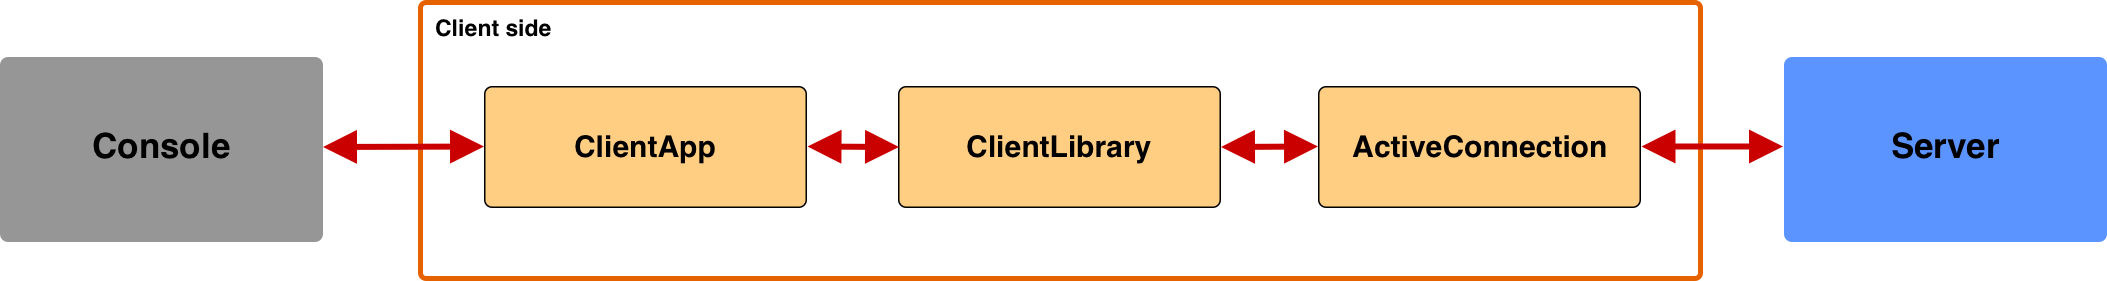
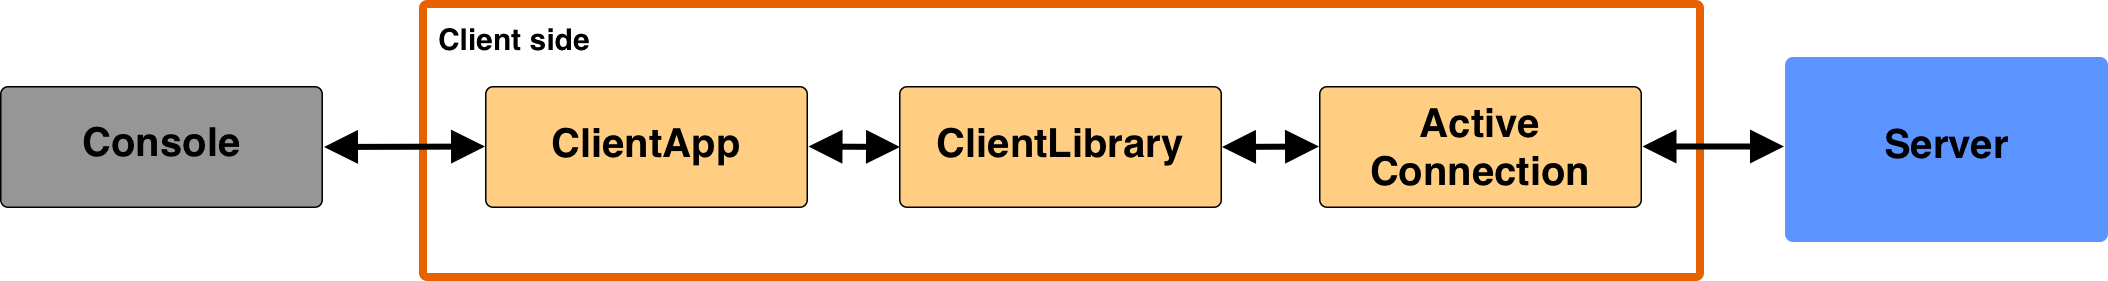
added kvserver section, moved information from background, added notes to summary, updated pics

diff --git a/report/03_key-valueserver.tex b/report/03_key-valueserver.tex
@@ -1,28 +1,17 @@
 \section{Key-value server}
-During the first four milestones, we were tasked with developing a distributed key-value storage system, which includes many features such as replication and caching. In this section, we focus on the implementation behind some of those properties.
+ Before we get into the details of MS5, we would like to revist the implementation of the distributed key-value storage system we were tasked to develop and briefly discuss some of its features. Figure \ref{fig:ms4_arch} displays how a client interacts with its Connection Handle Thread (CHT), the helper thread assigned to serve it. In the following sections, we take a deeper look at how the client side and storage system visible in \ref{fig:ms4_arch} are structured and how they function.
 
 \begin{figure}[h]
 	\centering
 	\includegraphics[width=\linewidth]{figures/kvserver/ms4_structure.png}
-	\caption{KV server architecture}
+	\caption{Key-value server architecture}
+	\label{fig:ms4_arch}
 \end{figure}
 
 
 
-
-\begin{figure}[h]
-	\centering
-	\includegraphics[width=\linewidth]{figures/kvserver/kvs_arch.png}
-	\caption{Client side architecture}
-\end{figure}
-
-
---> Implementation moved here
-
-In this section the implementation of the chatroom is examined in depth. Firstly, the extension for the client side and then for the server side are described respectively. Lastly the chat system is explained in greater detail, since it encapsulates our work for Milestone 5.
-
-\subsection{Client Side Implementation}
-\label{sec:Implementation_clintside}
+%Client Side
+\subsection{Client side}
 
 \begin{figure}[h]
 	\centering
@@ -30,28 +19,43 @@ In this section the implementation of the chatroom is examined in depth. Firstly
 	\caption{Client side architecture}
 	\label{fig:client_arch}
 \end{figure}
+
 The client side consists of the three following main components as seen in figure \ref{fig:client_arch}:
+
 \begin{enumerate} 
-  \item \textit{ClientApp} represents the client interface which allows input through the console. From there the client is able to issue commands to: connect to and disconnect from the system, interact with the key-value store and chat. The input is then checked and parsed before getting sent to the ClientLibrary. The result of the user command is displayed on the console through the ClientApp.
-  \item \textit{ClientLibrary} serves as a bridge between the client and the server.
-  \item \textit{ActiveConnection} abstracts the TCP socket connection to the server which allows the client to connect to the server socket and exchange data without worrying about the underlying structure.
+  \item \textit{ClientApp}: represents the client interface which allows input through the console. From there the client is able to issue commands to connect to and disconnect from the system, interact with the key-value store and chat. The input is then checked and parsed before getting sent to the ClientLibrary. The result of the user's request gets displayed on the console through the ClientApp.
+  \item \textit{ClientLibrary}: serves as a bridge between the client and the server. It contains an instance of the hash ring and is responsible to connect to the correct server.
+  \item \textit{ActiveConnection}: abstracts the TCP socket connection to the server which allows the client to exchange data with the CHT without worrying about the underlying structure.
 \end{enumerate}
  
-\subsection{Server Side Implementation}
-\label{sec:implementation_serverside}
+ 
+ 
+ % Server side
+\subsection{Server side}
 
-Each server owns a list containing the active chatrooms that it is responsible for. In order for a client to join one of those chatrooms is that it would first need to connect to that server, similar to the way storing key-value pair functions. The decision, to make chatrooms accessible only from one server has both its advantages and disadvantages. For one, it reduces the complexity of the system because otherwise servers would need a way to exchange updates regarding the active chatrooms and chat users whenever a user joins or leaves.
+\begin{figure}[h]
+	\centering
+	\includegraphics[width=\linewidth]{figures/kvserver/kvs_arch.png}
+	\caption{Client side architecture}
+\end{figure}
 
-A problem with our implementation is that if the chatIDs are not equally distributed across all servers, which may occur due to the unpredictable nature of the hashing function, a single server could then be in charge of most chatrooms. This would cause that a server to be overloaded with requests and would lead to greater response times and, in the worst-case scenario, would result in a bottleneck for the whole system. In order to combat this issue, we limit the number of chatrooms belonging to one server to 15 and the number of users in a single chatroom to 30. This means a server is responsible for up to 450 chat users. These limits could also be easily changed depending on the intended use case of the system.
+As previously mentioned, the CHT waits on the socket for the client to send a request. Afterwards, the request is transfered to the key-value processor (KVP), which parses the client's string and translates it into direct DOPs. The ServerRing, which contains information about the hash ring, is called to check whether the current server is responsible for performing the requested operation on the provided key or not. In the former case, the request gets forwarded to the KVStore. There, read operations get passed on to the cache and only then to the DiskStore, in case of a cache miss. Write operations instead are redirected to the cache, the DiskStore and the Replication Manager (RPM). The DiskStore creates at the start of each server a directory containing three subdirectories, one for storing the keys it has write access to and one for each of the key sets it has only read access to. A file inside one of those directories represents a key-value pair with the key being the file name and the value the file content.
+The RPM is in charge of both sending updates to the server's replicas and receiving updates regarding sent by the responsible servers.
 
-The biggest advantage of our decision is that it heavily reduces network traffic. Since all chatroom users are connected to the same server, that server can easily forward messages between them. Otherwise additional socket connections would have been required which would have both increased the load on the network and the overall complexity of the system.
+[moved parts from background to here] (not complete)
+Since we do not block clients from accessing the DB, 
+CAP Partition: This is mainly secured by replicating data across multiple servers.
+ACID Durability : This is ensured by persisting data permanently on disk.
 
-Our idea for the chatting functionality was for it to be as lightweight as possible with clients entering and leaving chatrooms regularly.
+With Milestone 4, replication is added to the system with the intention of increasing the availability by distributing the data records to the two replica servers. Redundancy comes along with the replication strategy, however when a node crashes or fails, read operations can be processed via replicated servers.
+Our system conforms to the first property of BASE by being generally available, because servers respond to clients requests even if a latency occurs. The group chat extension, later to be discussed thoroughly, preserves the same requirements.
 
-server side:
-The client interacts directly only with the ConnectionHandleThread (CHT) created by the server to assist that specific client. At the start of the connection, the CHT contacts the ECS in order to assign the client a unique username. After that the CHT interacts exclusively with KV storage and the chat system, depending on the command issued by the client. The KV storage system provides the basic capabilities of a key-value store and persists data on disk. When more than two servers are online and replication is active, each server contains a replica of two other servers. Whenever a put operation is executed, it has to get forwarded to the server.
+Eventual consistency is achieved within the system due to requirements of Milestone 4. If there are no updates for a long time all the replicas will become eventually consistent by updating key ranges of the coordinator and replica nodes placed on an hashring. In order to maintain strong consistency as described in \ref{sec:background_acid}, a client performing a \texttt{PUT} operation would have to also wait until the value gets sent over to both of the servers replicas, which would result in slower \texttt{PUT}s. Since our system is not designed to handle important real-time transactions, such as in a banking system, eventual consistency satisfies our database needs while allowing faster response times and higher availability. 
 
-kv storage:
-The KVCommandProcessor (KVCP) is responsible to receive commands from the CHT and return the result. Before a value is stored or retrieved, the KVCP utilizes the ServerRing to check whether the server is responsible for the provided key or not. In the latter case, a simple error message is returned back to the client, which would then connect to the responsible server. In the former case, the request is sent over to the KVStore. If it was a GET command issued, the KVStore first tries to retrieve the value from the cache. In case the value has not been found, the DiskStore checks if it is stored on disk.
-With a PUT request, the KVStore sends the key-value pair to both the cache and DiskStore and also to the RepManager. This allows it to get sent over to the two replica servers. The RepManager is also charged with updating the replica on the server whenever one of the coordinators processes a PUT command.
+Since the implementation of Milestone 3, it is possible to monitor key-value stores continuously. The ECS pings each key-value server every 700 ms to be informed about the servers’ availability. If a server does not respond to the ping within a given period, it is considered shutdown. With replication active, single failing server nodes can be tolerated, thus partition tolerance is provided as well. Since each piece of data exists on three different servers, the only way information can get permanently lost is if all three responsible servers crash simultaneously with no time in between to transfer data to a running server.
+
+One of the downsides of our system is that the chat system runs just one of the requested servers by the client. Thus, partition tolerance may not be covered in case of that serving crashing. As in the most database systems there are trade-offs between the properties: availability, consistency and partition tolerance.
+
+
+
 

diff --git a/report/02_background.tex b/report/02_background.tex
@@ -21,7 +21,7 @@ According to the CAP Theorem, distributed databases have three substantial prope
   \item Availability: \\
   Servers respond to the request of clients at all cases. Every non-failing node in the system must be able to serve the client in a reasonable amount of time\cite{gilbert2002brewer}.
   \item Partition tolerance: \\
-  Whenever a server crashes, the rest of the system will still stay functional after the crash, without any information being lost. This is mainly secured by replicating data across multiple servers.
+  Whenever a server crashes, the rest of the system will still stay functional after the crash, without any information being lost.
 \end{itemize}
 
 Twelve years after from proposing the CAP theorem, Brewer mentioned that software engineers do not have to strictly abide to the 2 of 3 principle, it is rather a spectrum than a binary choice \cite{brewer2012cap}. In other words, a distributed database system can favour high level of consistency and partition tolerance by having low level of availability. Thus, the initial theorem is improved by not having to sacrifice availability completely in this case.
@@ -39,14 +39,12 @@ The system never contains any stale data. When a client wants to read from any s
 \item Isolation:\\
 All transactions happen isolated from each other and do not affect each other. Thus, if one transaction fails, all others are undisturbed.
 \item Durability:\\
-Once a client is informed that a transaction has been successfully committed, even if a crash occurs, the transaction would still stay committed. This is ensured by persisting data permanently on disk.
+Once a client is informed that a transaction has been successfully committed, even if a crash occurs, the transaction would still stay committed.
 \end{itemize} 
 
 \subsection{BASE}
 \label{sec:background_base}
 BASE, another design approach defined by Brewer, offers looser requirements than ACID\cite{brewer2012cap}. Non-relational database systems concentrating on high availability make use of the BASE approach, which sacrifices strong consistency in favour of being always accessible. Examples include huge storage services such as Amazon's Dynamo, Facebook's Cassandra or Google's BigTable, where millions of active users always expect the service to be available\cite{kalid2017big}. Nevertheless, there must be trade-offs. By not guaranteeing the consistency at all time, the system cost is reduced, and clients are happier, but a client might not get an immediate response to his request.
-
-With Milestone 4, replication is added to the system with the intention of increasing the availability by distributing the data records to the two replica servers. Redundancy comes along with the replication strategy, however when a node crashes or fails, read operations can be processed via replicated servers.
 
 \begin{itemize}
   \item Basic Availability:\\
@@ -56,14 +54,6 @@ Since stale data is permitted, servers never truly know whether they are current
   \item Eventual Consistency:\\
 If there are no updates in the system for a long time, then all servers will gradually become consistent. Since the time is not specified, servers are always in a soft state, as explained above.
 \end{itemize}
-
-Our system conforms to the first property of BASE by being generally available, because servers respond to clients requests even if a latency occurs. The group chat extension, later to be discussed thoroughly, preserves the same requirements.
-
-Eventual consistency is achieved within the system due to requirements of Milestone 4. If there are no updates for a long time all the replicas will become eventually consistent by updating key ranges of the coordinator and replica nodes placed on an hashring. In order to maintain strong consistency as described in \ref{sec:background_acid}, a client performing a \texttt{PUT} operation would have to also wait until the value gets sent over to both of the servers replicas, which would result in slower \texttt{PUT}s. Since our system is not designed to handle important real-time transactions, such as in a banking system, eventual consistency satisfies our database needs while allowing faster response times and higher availability. 
-
-Since the implementation of Milestone 3, it is possible to monitor key-value stores continuously. The ECS pings each key-value server every 700 ms to be informed about the servers’ availability. If a server does not respond to the ping within a given period, it is considered shutdown. With replication active, single failing server nodes can be tolerated, thus partition tolerance is provided as well. Since each piece of data exists on three different servers, the only way information can get permanently lost is if all three responsible servers crash simultaneously with no time in between to transfer data to a running server.
-
-One of the downsides of our system is that the chat system runs just one of the requested servers by the client. Thus, partition tolerance may not be covered in case of that serving crashing. As in the most database systems there are trade-offs between the properties: availability, consistency and partition tolerance.
 
     
 

diff --git a/report/06_summary.tex b/report/06_summary.tex
@@ -4,8 +4,23 @@
 To conclude our paper, with the group chat extension in our system we provided clients a chat system which supports low latency and high availability. We got inspired by Redis Pub/Sub strategy and adjusted it in our system by bringing the clients on the same level instead of having publishers and subscribers. As we mentioned in our motivation \ref{sec:motivation} subscribers are waiting on an update of the subscribed key and during this process clients do not use any other functionalities in the system. To prevent the idle time which client just waits a response from the server, we enhanced the system maintaining many-to-many relationship in contrast Redis’ one-to-many relationship.
 
 During the development process, initially we considered the demands of the client, for instance having globally unique usernames, accessing the database while chatting and having private and public chatrooms. Subsequently, with the implementation of the chat system we fulfilled the potential demands and extent it with features such as “ACTIVE” or “WSP” commands as explained in the section Newly added commands for the group chat \ref{sec:groupchat_commands}.
+We got inspired by Redis Pub/Sub strategy and adjusted it in our system by bringing the clients on the same level instead of having publishers and subscribers.
+During the development process, initially we considered the demands of the client.
 
 Consequently, after the performance tests we recommend our system for light-weighted communication. The reason for that is as explained in the Server side implementation \ref{sec:implementation_serverside} in greater detail, it might occur that the chatrooms are not equally distributed in the system and thereby just one server might have to carry the load of having all the chatrooms. And this leads us one of our so to say weaknesses in the system which is the limitations. We limited the number of chatrooms to 15 for one server and the number of users using one chatroom to 30. The numbers could be arranged depending on the use case of the system. If the user of our group chat prefers to work on a large-scaled messaging platform and can give up on having low latency, the limitations for the number of chatrooms and the clients could be increased.
 
 One of our strengths is allowing the access to the database while clients are chatting.
 
+
+
+We started from having one client interacting with a basic echo server to creating a whole distributed key-value storage system with a chatting functionality.
+In MS3 and MS4 we worked on adding features essential to any large-scale database like replication and request distribution, which helped to scale up our system. 
+And in the end we were able to add a functionality that both made sense to us and we felt was unique enough of an idea. 
+
+
+We got inspired by Redis Pub/Sub strategy and adjusted it in our system by bringing the clients on the same level instead of having publishers and subscribers. As we mentioned in our motivation \ref{sec:motivation} subscribers are waiting on an update of the subscribed key and during this process clients do not use any other functionalities in the system. To prevent the idle time which client just waits a response from the server, we enhanced the system maintaining many-to-many relationship in contrast Redis’ one-to-many relationship.
+
+
+Consequently, after the performance tests we recommend our system for light-weighted communication. The reason for that is as explained in the Server side implementation \ref{sec:implementation_serverside} in greater detail, it might occur that the chatrooms are not equally distributed in the system and thereby just one server might have to carry the load of having all the chatrooms. And this leads us one of our so to say weaknesses in the system which is the limitations. We limited the number of chatrooms to 15 for one server and the number of users using one chatroom to 30. The numbers could be arranged depending on the use case of the system. If the user of our group chat prefers to work on a large-scaled messaging platform and can give up on having low latency, the limitations for the number of chatrooms and the clients could be increased.
+
+One of our strengths is allowing the access to the database while clients are chatting.
